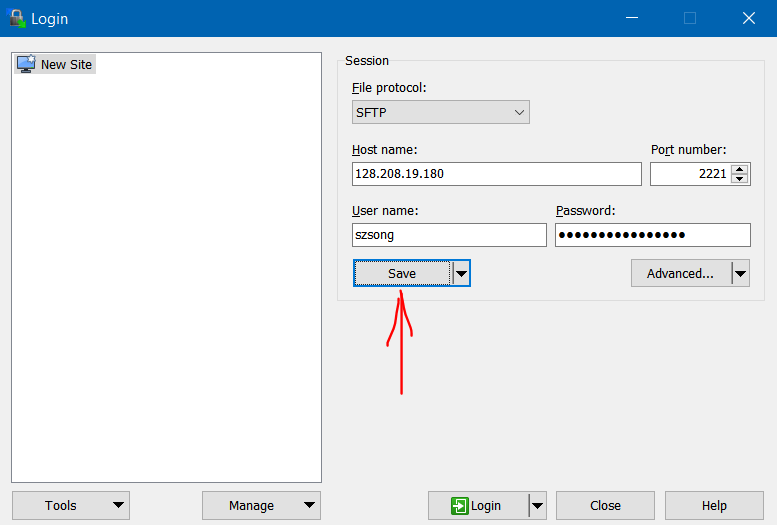
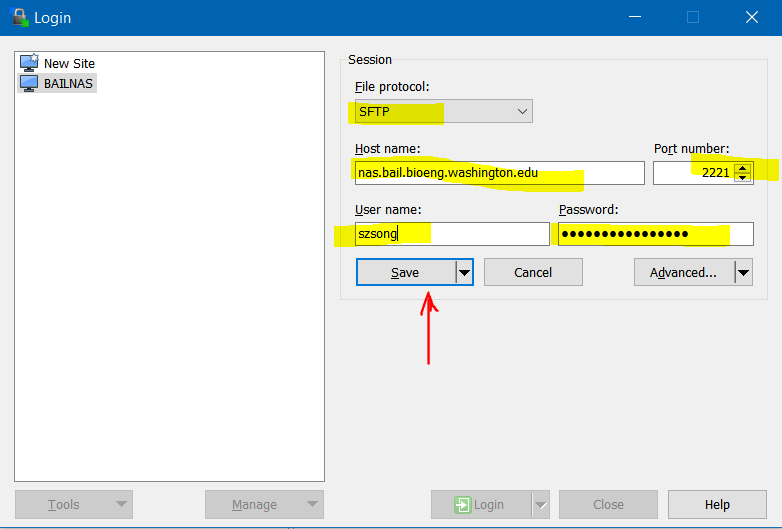
Deployed c81a215 with MkDocs version: 1.0.2

Changed region(s): [[0.0, 0.0, 1.0, 1.0], [0.4015, 0.2743, 1.0, 0.7314], [0.4324, 0.1524, 0.6795, 0.2438]]

diff --git a/Instructions/index.html b/Instructions/index.html
@@ -87,6 +87,8 @@
             <li><a href="#mac-os">Mac OS</a></li>
             <li><a href="#mobile-devices">Mobile devices</a></li>
         <li class="main "><a href="#access-from-anywhere-else">Access from anywhere else</a></li>
+            <li><a href="#windows_1">Windows</a></li>
+            <li><a href="#mac-os_1">Mac OS</a></li>
     </ul>
 </div></div>
                 <div class="col-md-9" role="main">
@@ -124,11 +126,14 @@ Please follow the instructions below to mount BAILnas as network drive:</p>
 <li>The NAS drive will appear as "NAS" on your desktop and Finder.</li>
 </ol>
 <h2 id="mobile-devices">Mobile devices</h2>
-<h3 id="android-users">Android users</h3>
+<h3 id="android">Android</h3>
 <p>Download Solid Explorer (or any alternative remote file explorer),</p>
 <p>use the following address for SFTP access: <code>sftp://nas.bail.bioeng.washington.edu:2221</code></p>
+<h3 id="ios">iOS</h3>
+<p><a href="https://itunes.apple.com/us/app/ftpmanager-ftp-sftp-client/id525959186?mt=8">FTPManager</a> Seems to be useful but has not been tested.</p>
 <hr />
 <h1 id="access-from-anywhere-else">Access from anywhere else</h1>
+<h2 id="windows_1">Windows</h2>
 <p>Below is the instructions for using a software "WinSCP" to access NAS with SFTP protocol.</p>
 <ol>
 <li>
@@ -158,7 +163,9 @@ Please follow the instructions below to mount BAILnas as network drive:</p>
 <p>Now you have access to NAS folder. To navigate to other folders (e.g. BAILnas/Data), you may need to click on upper level directory in order to refresh.</p>
 <p><img alt="winscp7" src="../res/winscp/7.PNG" /></p>
 </li>
-</ol></div>
+</ol>
+<h2 id="mac-os_1">Mac OS</h2>
+<p>Download <a href="https://filezilla-project.org/download.php?platform=osx">FileZilla</a> and follow similar setup procedure as "WinSCP" in windows.</p></div>
         </div>
 
         <footer class="col-md-12">

diff --git a/index.html b/index.html
@@ -208,5 +208,5 @@
 
 <!--
 MkDocs version : 1.0.2
-Build Date UTC : 2018-08-23 23:50:54
+Build Date UTC : 2018-08-24 00:01:43
 -->
